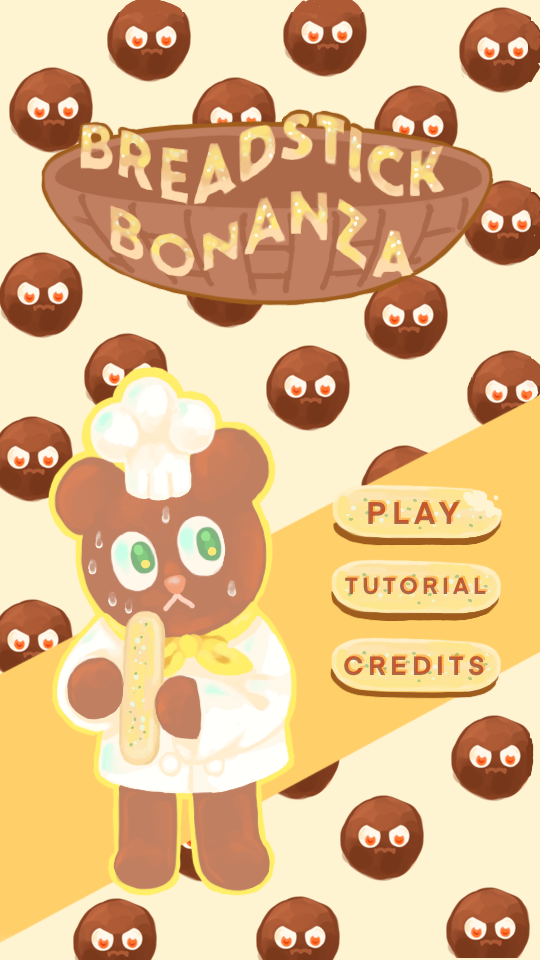
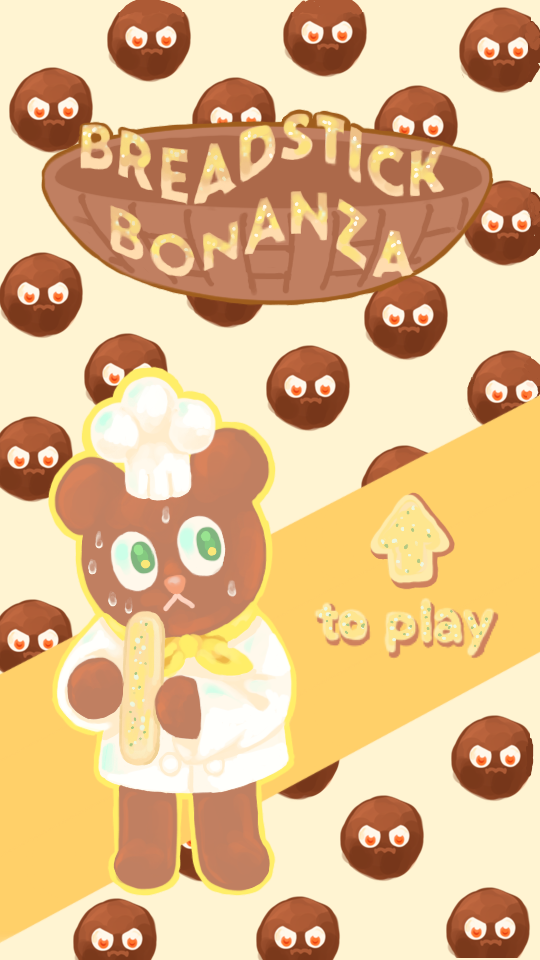
added all scenes to game

Changed region(s): [[0.5926, 0.5, 0.9481, 0.75]]

diff --git a/src/scenes/play.js b/src/scenes/play.js
@@ -94,21 +94,23 @@ class Play extends Phaser.Scene {
     // Handles what happens when the player hits a meatball
     gameEnd() {
         this.physics.world.pause();
+        this.scene.start('end');    
 
         // Text setup
-        let textConfig = {
-            fontFamily: "Helvetica",
-            fontsize: "36 px",
-            backgroundColor: "#FFF",
-            color: "#000",
-            align: "center",
-            padding: {
-                top: 5,
-                bottom: 5
-            }
-        };
-        this.add.text(game.config.width / 2, game.config.height / 2 - 32, "GAME OVER", textConfig).setOrigin(0.5);
-        this.add.text(game.config.width / 2, game.config.height / 2 + 32, "Press ↓ to restart", textConfig).setOrigin(0.5);
+        // let textConfig = {
+        //     fontFamily: "Helvetica",
+        //     fontsize: "36 px",
+        //     backgroundColor: "#FFF",
+        //     color: "#000",
+        //     align: "center",
+        //     padding: {
+        //         top: 5,
+        //         bottom: 5
+        //     }
+        // };
+
+        // this.add.text(game.config.width / 2, game.config.height / 2 - 32, "GAME OVER", textConfig).setOrigin(0.5);
+        // this.add.text(game.config.width / 2, game.config.height / 2 + 32, "Press ↓ to restart", textConfig).setOrigin(0.5);
 
         this.endOGame = true;
     }

diff --git a/src/scenes/tutorial.js b/src/scenes/tutorial.js
@@ -1,0 +1,37 @@
+// Scene that displays tutorial
+class Tutorial extends Phaser.Scene {
+
+   constructor() {
+       super("tutorial");
+   }
+
+   create() {
+         keyUp = this.input.keyboard.addKey(Phaser.Input.Keyboard.KeyCodes.UP);
+         keyLeft = this.input.keyboard.addKey(Phaser.Input.Keyboard.KeyCodes.LEFT);
+         keyRight = this.input.keyboard.addKey(Phaser.Input.Keyboard.KeyCodes.RIGHT);
+
+
+      var tutConfig = {
+         key: "tutAnimation",
+         frames: this.anims.generateFrameNumbers("tutorial", {
+         start: 0,
+         end: 1,
+         first: 0
+         }),
+         frameRate: 2,
+         repeat: -1
+      };
+
+      this.anims.create(tutConfig);
+      var tutorial = this.add.sprite(0, 0, "tutorial").play("tutAnimation");
+      tutorial.setOrigin(0,0);
+    }
+
+   update() {
+         console.log("Tutorial");
+      
+         if (Phaser.Input.Keyboard.JustDown(keyUp)||Phaser.Input.Keyboard.JustDown(keyLeft)||Phaser.Input.Keyboard.JustDown(keyRight)){
+            this.scene.start("play");
+         }
+   }
+}

diff --git a/src/scenes/load.js b/src/scenes/load.js
@@ -7,15 +7,22 @@ class LoadScene extends Phaser.Scene {
 
     // Loads images
     preload() {
-        this.load.image('chef','./assets/chef_back.png');
+        this.load.image('chef','./assets/chef_idle.png');
         this.load.image('meatball','./assets/meatball.png');
         this.load.image('breadstick','./assets/breadstick.png');
         this.load.image('background','./assets/bg.png');
+        this.load.image('menu','./assets/menu.png');
+        this.load.spritesheet('tutorial', './assets/tutorial_sheet.png', {
+            frameWidth: 540, 
+            frameHeight: 960
+        });
+        this.load.image('end','./assets/end.png');
+
     }
 
     create() {
         console.log("Loaded");
 
-        this.scene.start("play");
+        this.scene.start("menu");
     }
 }

diff --git a/src/scenes/menu.js b/src/scenes/menu.js
@@ -1,0 +1,20 @@
+// Scene that displays menu and buttons
+class Menu extends Phaser.Scene {
+
+   constructor() {
+       super("menu");
+   }
+
+   create() {
+        keyUp = this.input.keyboard.addKey(Phaser.Input.Keyboard.KeyCodes.UP);
+        this.add.image(0,0, 'menu').setOrigin(0,0);
+    }
+
+   update() {
+        console.log("Menu");
+
+        if (Phaser.Input.Keyboard.JustDown(keyUp)){
+            this.scene.start("tutorial");
+        }
+   }
+}

diff --git a/src/scenes/end.js b/src/scenes/end.js
@@ -1,0 +1,20 @@
+// End scene
+class End extends Phaser.Scene {
+
+   constructor() {
+       super("end");
+   }
+
+   create() {
+        keyUp = this.input.keyboard.addKey(Phaser.Input.Keyboard.KeyCodes.UP);
+        this.add.image(0,0, 'end').setOrigin(0,0);
+    }
+
+   update() {
+        console.log("End");
+
+        if (Phaser.Input.Keyboard.JustDown(keyUp)){
+            this.scene.start("play");
+        }
+   }
+}

diff --git a/index.html b/index.html
@@ -8,7 +8,10 @@
     <script src="lib/phaser.js"></script>
     <script src="src/scenes/load.js"></script>
     <script src="src/prefabs/meatball.js"></script>
+    <script src="src/scenes/menu.js"></script>
+    <script src="src/scenes/tutorial.js"></script>
     <script src="src/scenes/play.js"></script>
+    <script src="src/scenes/end.js"></script>
     <script src="src/main.js"></script>
 </head>
 <body>

diff --git a/src/main.js b/src/main.js
@@ -4,7 +4,7 @@ console.log("Bar");
 // Names:
 // Alexis Adolpho
 // Jacob Dickerman
-// Grce Ho
+// Grace Ho
 // 
 // Sources: 
 // https://phaser.discourse.group/t/center-game-on-my-website/5921/3
@@ -19,7 +19,7 @@ const config = {
     physics: {
         default: "arcade"
     },
-    scene: [LoadScene, Play]
+    scene: [LoadScene, Menu, Tutorial, Play, End]
 };
 
 let game = new Phaser.Game(config);
